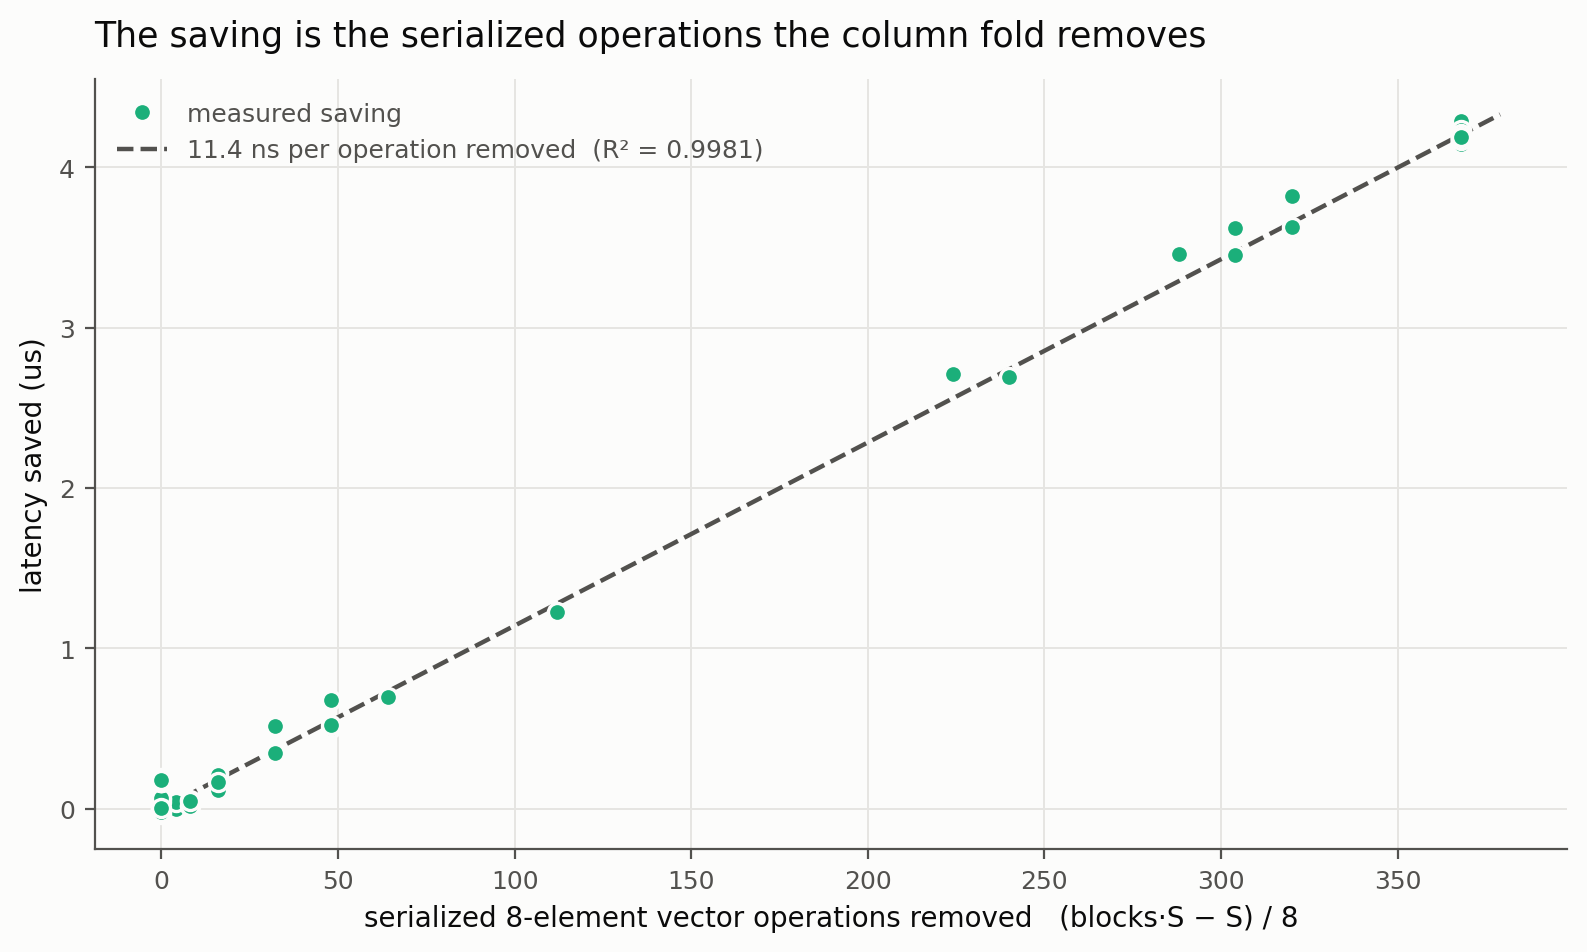
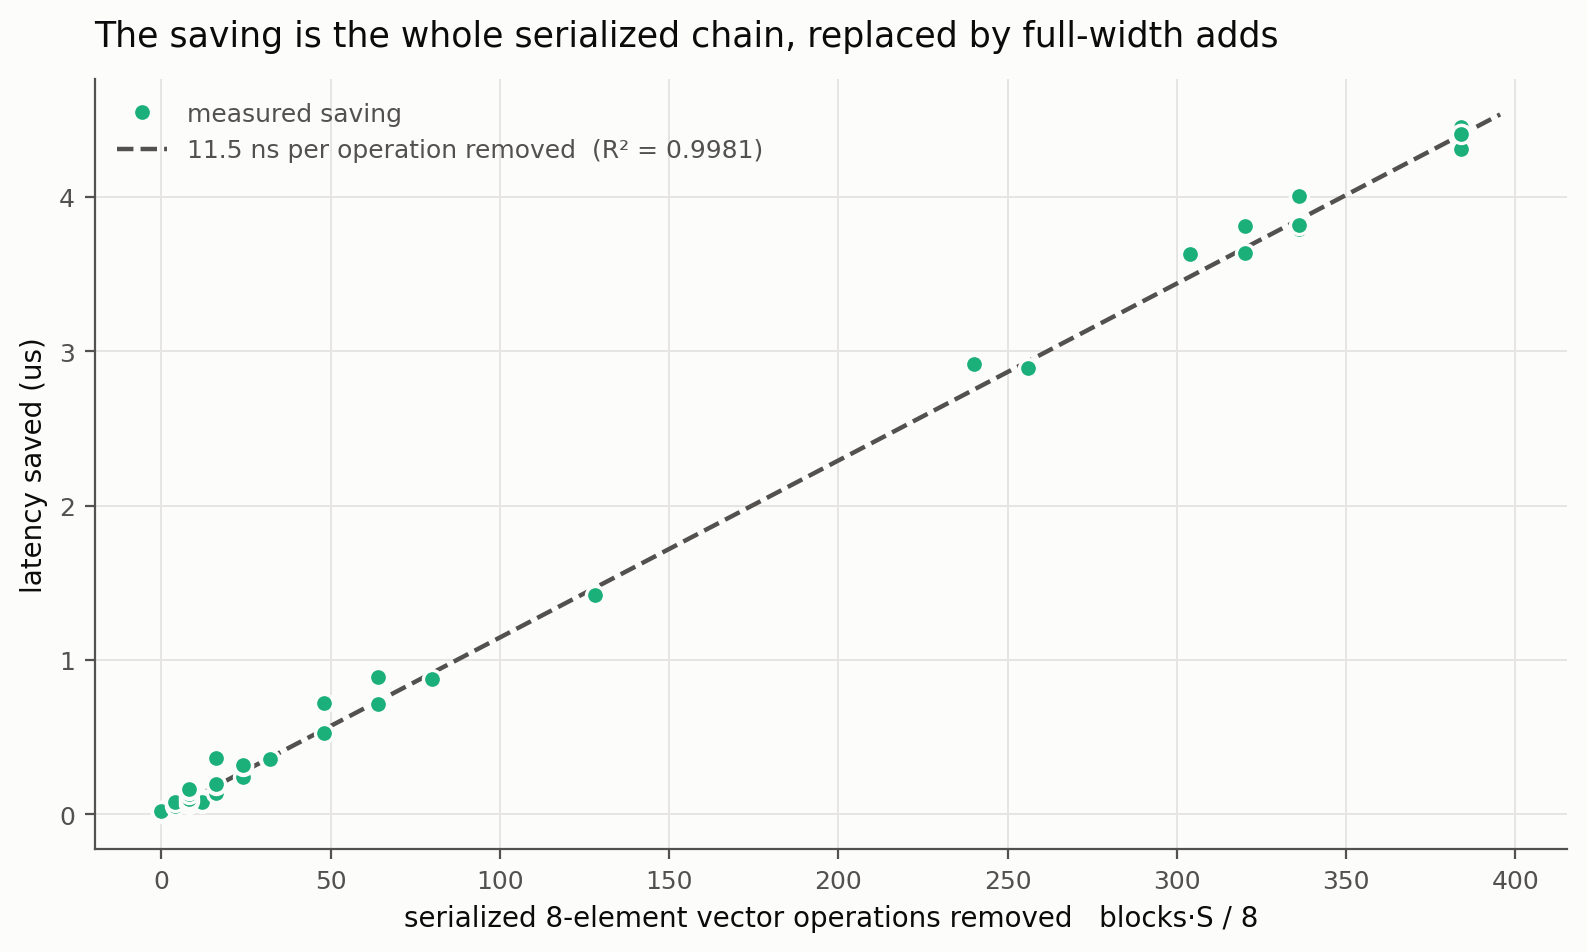
docs: refresh the int32-partials figures for the halving chain

diff --git a/README.md b/README.md
@@ -9,7 +9,7 @@ at a fixed address.
 | file | what it shows |
 |---|---|
 | `fig1_speedup.png` | Speedup by input length. int8 (int32 accumulator) is the only dtype that moves; float32 and float16 sit on the noise floor by construction. |
-| `fig2_attribution.png` | The saving against the number of serialized 8-element vector operations the column fold removes, `(blocks·S − S) / 8`. The predictor comes from the host tiling rule alone; the fit is 11.4 ns per operation, R² = 0.9981. |
+| `fig2_attribution.png` | The saving against the number of serialized 8-element vector operations removed, `blocks·S / 8` — the whole chain, since the column fold and the halving chain are both full-width. The predictor comes from the host tiling rule alone; the fit is 11.5 ns per operation, R² = 0.9981. |
 
 Harness, raw CSVs and plot sources live in
 `pypto-3.0-notes/pto-kernels/int32_partials_plots/`.
